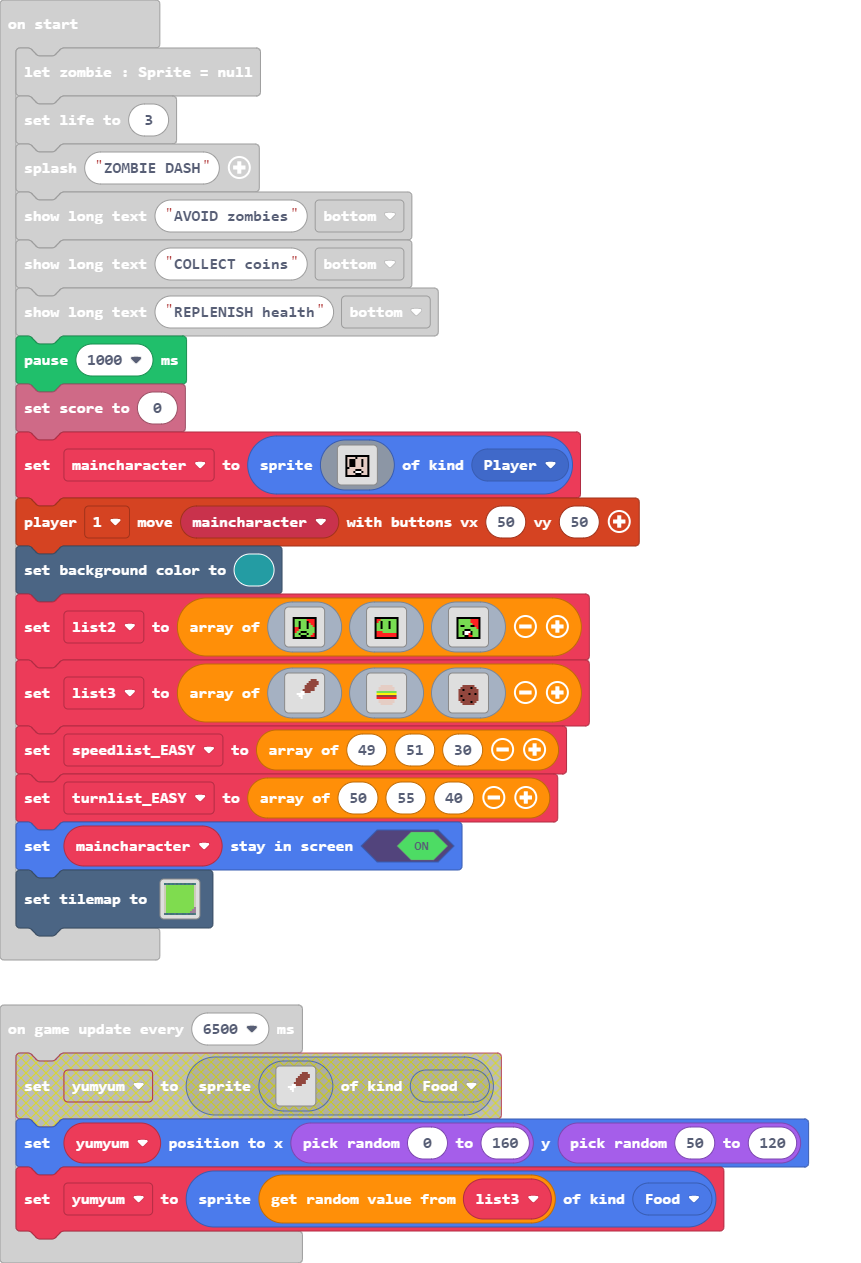
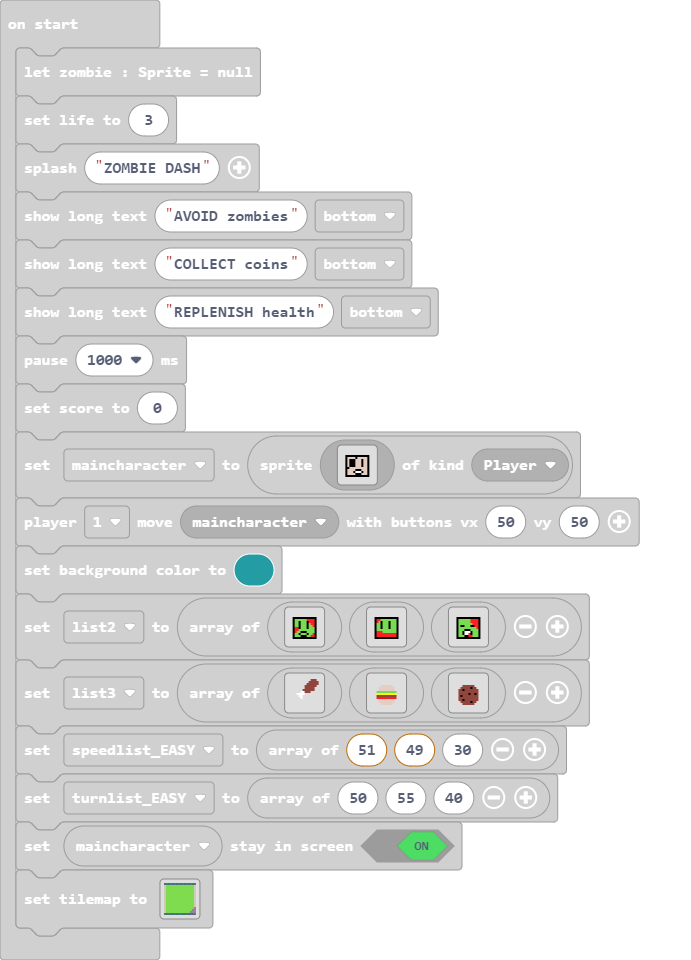
Update main.blocks, main.ts

diff --git a/main.ts b/main.ts
@@ -149,7 +149,7 @@ let list3 = [img`
     . . . . . . . . . . . . . . . . 
     . . . . . . . . . . . . . . . . 
     `]
-let speedlist_EASY = [49, 51, 30]
+let speedlist_EASY = [51, 49, 30]
 let turnlist_EASY = [50, 55, 40]
 maincharacter.setStayInScreen(true)
 tiles.setTilemap(tilemap`level2`)
